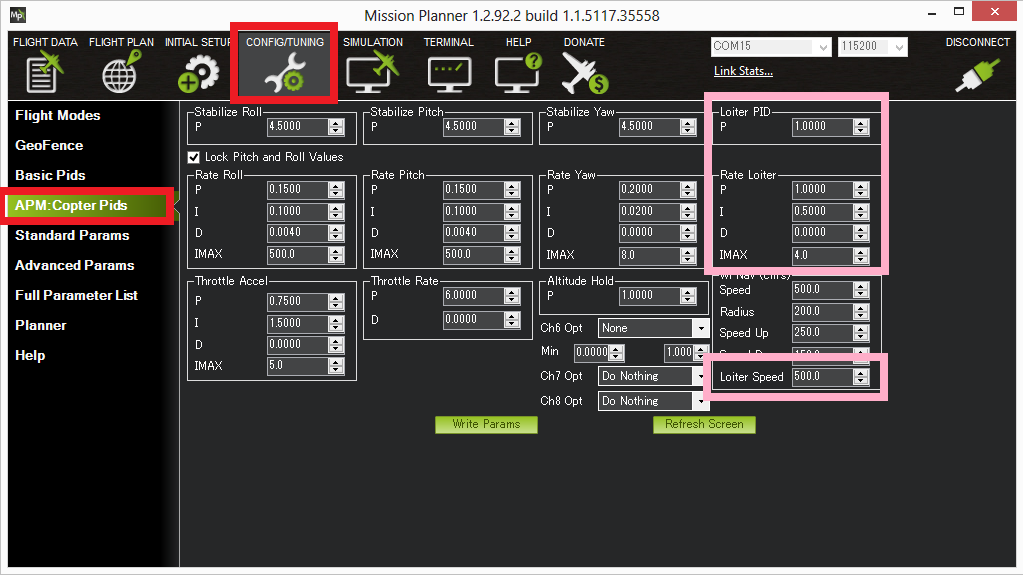
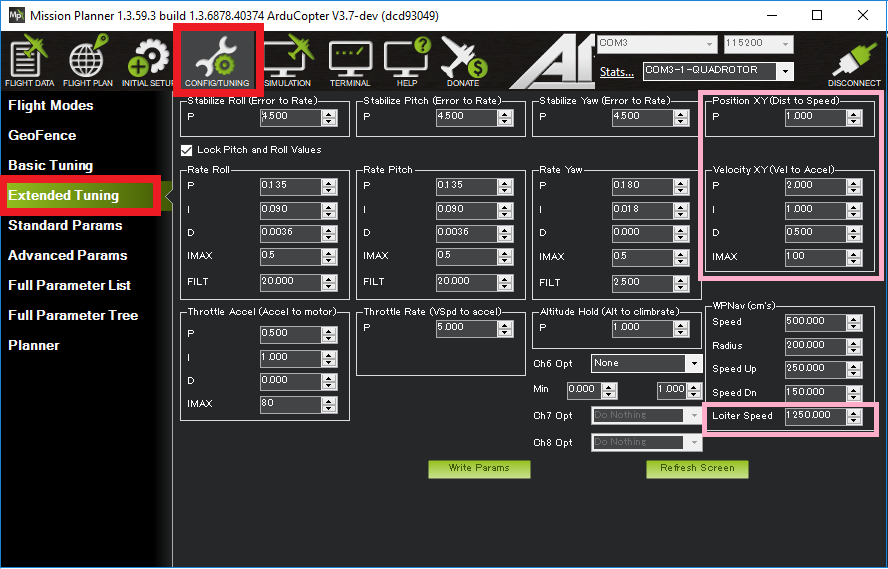
Copter: update loiter wiki page with 3.6 params

diff --git a/copter/source/docs/loiter-mode.rst b/copter/source/docs/loiter-mode.rst
@@ -8,7 +8,7 @@ Loiter Mode automatically attempts to maintain the current location, heading and
 
 A good GPS lock, :ref:`low magnetic interference on the compass <common-diagnosing-problems-using-logs_compass_interference>` and :ref:`low vibrations <common-diagnosing-problems-using-logs_vibrations>` are all important in achieving good loiter performance.
 
-..  youtube:: iGA6D2GBFIc?start=20&end=81
+..  youtube:: yVAnBQkNJdY?start=261
     :width: 100%
 
 Controls
@@ -37,22 +37,32 @@ Tuning
 Loiter mode incorporates the altitude controller from AltHold mode. 
 Details for tuning :ref:`AltHold are on this wiki page <altholdmode_tuning>`.
 
-:ref:`WPNAV_LOIT_SPEED <WPNAV_LOIT_SPEED>` : max horizontal speed in cm/s.  I.e. 500 = 5m/s.  By default, the maximum acceleration is 1/2 of the Loiter speed (i.e. 2.5m/s/s).
+For Copter-3.6 (and higher)
+---------------------------
 
-:ref:`WPNAV_LOIT_MAXA <WPNAV_LOIT_MAXA>` : max acceleration in cm/s/s.  Higher values cause the copter to accelerate and stop more quickly.
+- :ref:`LOIT_SPEED <LOIT_SPEED>` : max horizontal speed in cm/s (i.e. 1250 = 12.5m/s)
+- :ref:`LOIT_ACC_MAX <LOIT_ACC_MAX>` : max acceleration in cm/s/s.  Higher values cause the copter to accelerate and stop more quickly
+- :ref:`LOIT_ANG_MAX <LOIT_ANG_MAX>` : max lean angle in centi-degrees (i.e. 3000 = 30deg).  By default this value is zero which causes the ANGLE_MAX parameter's value to be used
+- :ref:`LOIT_BRK_ACCEL <LOIT_BRK_ACCEL>`: max acceleration in cm/s/s while braking (i.e. pilot has moved sticks to center).  Higher values will stop the vehicle more quickly
+- :ref:`LOIT_BRK_DELAY <LOIT_BRK_DELAY>`: the delay in seconds before braking starts once the pilot has centered the sticks
+- :ref:`LOIT_BRK_JERK <LOIT_BRK_JERK>`: max change in acceleration in cm/s/s/s while braking.  Higher numbers will make the vehicle reach the maximum braking angle more quickly, lower numbers will cause smoother braking
+- :ref:`PSC_POSXY_P <PSC_POSXY_P>` : (shown as "Position XY (Dist to Speed)" at the top right of the screen shot above) converts the horizontal position error (i.e difference between the desired position and the actual position) to a desired speed towards the target position.  **It is generally not required to adjust this**
+- :ref:`PSC_VELXY_P <PSC_VELXY_P>` (shown as "Velocity XY (Vel to Accel)") converts the desired speed towards the target to a desired acceleration.  The resulting desired acceleration becomes a lean angle which is then passed to the same angular controller used by :ref:`Stabilize mode <stabilize-mode>`.  **It is generally not required to adjust this**
 
-:ref:`WPNAV_LOIT_MINA <WPNAV_LOIT_MINA>` : min acceleration in cm/s/s.  Higher values stop the copter more quickly when the stick is centered, but cause a larger jerk when the copter stops.
+For Copter-3.5 (and lower)
+----------------------------
 
-:ref:`WPNAV_LOIT_JERK <WPNAV_LOIT_JERK>`: max change in acceleration in cm/s/s/s.  Higher numbers will make the vehicle more responsive, lower numbers will make it smoother.
-
-:ref:`POS_XY_P <POS_XY_P>` : (shown as "Loiter PID P" at the top right of the screen shot above) converts the horizontal position error (i.e difference between the desired position and the actual position) to a desired speed towards the target position.  **It is generally not required to adjust this.**
-
-:ref:`VEL_XY_P <VEL_XY_P>` (shown as "Rate Loiter P, I and D") converts the desired speed towards the target to a desired acceleration.  The resulting desired acceleration becomes a lean angle which is then passed to the same angular controller used by :ref:`Stabilize mode <stabilize-mode>`.  **It is generally not required to adjust this.**
+- :ref:`WPNAV_LOIT_SPEED <WPNAV_LOIT_SPEED>` : max horizontal speed in cm/s.  I.e. 500 = 5m/s.  By default, the maximum acceleration is 1/2 of the Loiter speed (i.e. 2.5m/s/s).
+- :ref:`WPNAV_LOIT_MAXA <WPNAV_LOIT_MAXA>` : max acceleration in cm/s/s.  Higher values cause the copter to accelerate and stop more quickly.
+- :ref:`WPNAV_LOIT_MINA <WPNAV_LOIT_MINA>` : min acceleration in cm/s/s.  Higher values stop the copter more quickly when the stick is centered, but cause a larger jerk when the copter stops.
+- :ref:`WPNAV_LOIT_JERK <WPNAV_LOIT_JERK>`: max change in acceleration in cm/s/s/s.  Higher numbers will make the vehicle more responsive, lower numbers will make it smoother.
+- :ref:`POS_XY_P <POS_XY_P>` : (shown as "Position XY (Dist to Speed)" at the top right of the screen shot above) converts the horizontal position error (i.e difference between the desired position and the actual position) to a desired speed towards the target position.  **It is generally not required to adjust this.**
+- :ref:`VEL_XY_P <VEL_XY_P>` (shown as "Rate Loiter P, I and D") converts the desired speed towards the target to a desired acceleration.  The resulting desired acceleration becomes a lean angle which is then passed to the same angular controller used by :ref:`Stabilize mode <stabilize-mode>`.  **It is generally not required to adjust this.**
 
 Common Problems
 ===============
 
-#. The vehicle slows to a stop very slowly after the pilot releases the sticks (aka "freight train stop").  This can be resolved by increasing :ref:`WPNAV_LOIT_MAXA <WPNAV_LOIT_MAXA>` (to perhaps 500), :ref:`WPNAV_LOIT_MINA <WPNAV_LOIT_MINA>` (to perhaps 100) and :ref:`WPNAV_LOIT_JERK <WPNAV_LOIT_JERK>` (to perhaps 4000).
+#. When using Copter-3.5 (or lower) the vehicle slows to a stop very slowly after the pilot releases the sticks (aka "freight train stop").  This can be resolved by increasing :ref:`WPNAV_LOIT_MAXA <WPNAV_LOIT_MAXA>` (to perhaps 500), :ref:`WPNAV_LOIT_MINA <WPNAV_LOIT_MINA>` (to perhaps 100) and :ref:`WPNAV_LOIT_JERK <WPNAV_LOIT_JERK>` (to perhaps 4000).
 #. The vehicle `circles (aka "toiletbowls") <https://www.youtube.com/watch?v=a-3G9ZvXHhk>`__.  This
    is normally caused by a compass problem the most likely being
    :ref:`magnetic interference <common-diagnosing-problems-using-logs_compass_interference>`
